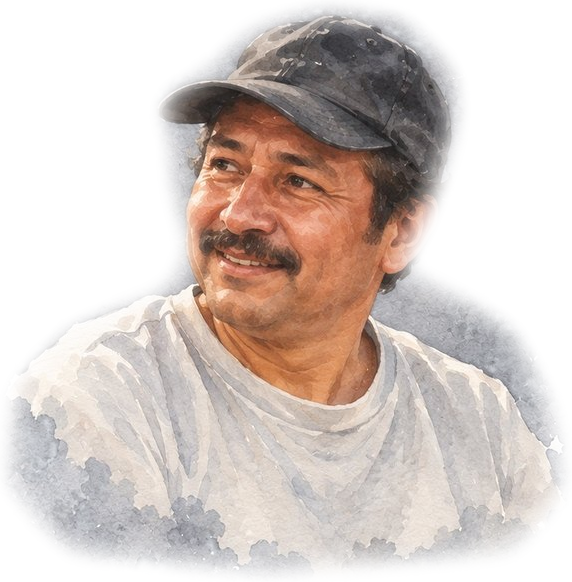
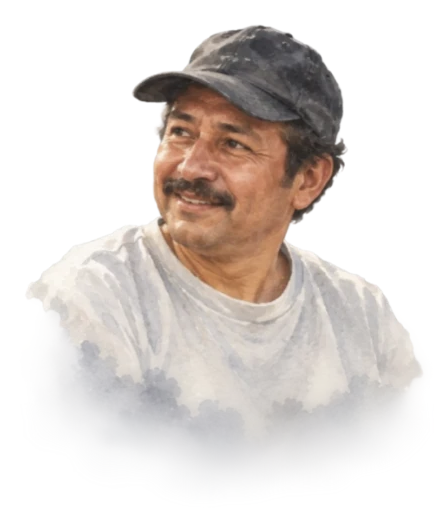
Papá o la Papa: use the supplied picture cut-outs, blurred toward the bottom; larger mic
- Split the user's three-picture image (pictures-source.webp) into the
  potato, Pope and Dad cut-outs, with a blur that ramps in over the lower
  part of each
- Size pictures by their visible bounds, ignoring the blur margin
- Mic icon 25% larger

Claude-Session: https://claude.ai/code/session_01GATDcCAs79GFnzRRRwYMir

diff --git a/papa/index.html b/papa/index.html
@@ -216,7 +216,7 @@
     justify-content: center;
     transition: opacity 260ms var(--ease-out), transform 260ms var(--ease-out), filter 260ms var(--ease-out);
   }
-  .mic svg { width: calc(15.2 * var(--u)); height: calc(20.2 * var(--u)); overflow: visible; }
+  .mic svg { width: calc(19 * var(--u)); height: calc(25.3 * var(--u)); overflow: visible; }
 
   .waves { gap: calc(4 * var(--u)); opacity: 0; transform: scale(0.6); filter: blur(4px); }
   .wave {
@@ -665,11 +665,10 @@
   const gl = canvas.getContext("webgl", { premultipliedAlpha: true, alpha: true, antialias: false });
   const AREA = { y: 90, w: 402, h: 500 }, SCALE = 2;
   const TEX_W = AREA.w * SCALE, TEX_H = AREA.h * SCALE;
-  // [left, top, width, height] in design px. These are the visible bounds
-  // of each picture in the Figma frames, because the cut-outs here are
-  // stand-ins cropped tight. With the Figma image files (which carry their
-  // own padding), use the frames' image boxes instead:
-  //   potato [123, 269, 155, 192] · pope [77, 216, 248, 307] · dad [9, 96, 384, 475]
+  // box: [left, top, width, height] in design px, the visible bounds of each
+  // picture in the Figma frames. pad: transparent margin (image px) around
+  // each cut-out, left for its bottom blur; it's ignored when sizing.
+  const PAD = 24;
   const PICTURES = {
     potato: { src: "assets/potato-cutout.png", box: [129, 277, 137, 179], label: "Watercolor of a potato" },
     pope:   { src: "assets/pope-cutout.png",   box: [91, 229, 217, 283],  label: "Watercolor of the Pope" },
@@ -724,9 +723,10 @@
   function layer(img, box, blurPx) {
     const c = document.createElement("canvas"); c.width = TEX_W; c.height = TEX_H;
     const x = c.getContext("2d");
-    const [bl, bt, bw, bh] = box, k = Math.min(bw / img.width, bh / img.height);
-    const w = img.width * k, h = img.height * k;
-    const dx = (bl + (bw - w) / 2) * SCALE, dy = (bt - AREA.y + (bh - h) / 2) * SCALE;
+    const [bl, bt, bw, bh] = box;
+    const cw = img.width - 2 * PAD, ch = img.height - 2 * PAD;   // the picture itself
+    const k = Math.min(bw / cw, bh / ch), w = img.width * k, h = img.height * k;
+    const dx = (bl + (bw - cw * k) / 2 - PAD * k) * SCALE, dy = (bt - AREA.y + (bh - ch * k) / 2 - PAD * k) * SCALE;
     if (blurPx && canFilter) x.filter = `blur(${blurPx}px)`;
     x.drawImage(img, dx, dy, w * SCALE, h * SCALE);
     if (blurPx && !canFilter) { // fallback blur: shrink, then let the upscale soften it

diff --git a/papa/CLAUDE.md b/papa/CLAUDE.md
@@ -55,17 +55,15 @@ cd papa && python3 -m http.server 8000   # mic needs http(s), not file://
   sheet behind an "Adjust" button. It holds Try a word, Paper (tooth size, tooth
   depth, warmth: 0 = `#fafafa` default, 1 = `#f5f2ee`), Painting time, and Voice visual.
 
-## Pictures: stand-ins until the Figma images are downloaded
+## Pictures
 
-`assets/*-cutout.png` are **stand-ins** made from `assets/{pope,potato,dad}.jpg`
-plus the traced `*-mask.png` outlines (with blue/grey backgrounds keyed out).
-The Figma image files couldn't be downloaded because `www.figma.com` was blocked
-by the cloud environment's network policy. When it's reachable, download the
-image fills from the three frames, save them over the cut-outs, and switch
-`PICTURES` boxes to the frames' image boxes: potato [123, 269, 155, 192],
-pope [77, 216, 248, 307], dad [9, 96, 384, 475]. The current boxes are the
-pictures' visible bounds, because the stand-ins are cropped tight. Also use the
-Figma progress-strip image (node 109:268) if wanted.
+`assets/{potato,pope,dad}-cutout.png` are split from the user's
+`assets/pictures-source.webp` (three transparent cut-outs side by side), each
+with a 24px transparent margin and a blur that ramps in over its lower 45%
+(colour and alpha blurred premultiplied, so no dark fringes). `PICTURES` boxes
+are each picture's visible bounds in the Figma frames; `layer()` ignores the
+24px margin when sizing. `assets/{pope,potato,dad}.jpg` and `*-mask.png` are
+the older full watercolors, no longer used by the page.
 
 ## Visual decisions (the user asked for these; keep them)
 
@@ -88,7 +86,7 @@ Figma progress-strip image (node 109:268) if wanted.
     per 30s), Marble, Ripples, Ellipses. Motion is slow.
   - Processing: grey blob with three small pulsing dots.
   - Mic and dots use the **pencil** filter in `--mic-ink #7f7d7a`. The mic
-    capsule is filled with that ink at 48% on white; the icon is about 15 × 20u.
+    capsule is filled with that ink at 48% on white; the icon is about 19 × 25u.
 
 ## Tried and rejected (don't bring back without asking)
 

diff --git a/papa/README.md b/papa/README.md
@@ -30,6 +30,6 @@ Design notes and decisions for future work: `CLAUDE.md`.
 ## Files
 
 - `index.html`: the whole prototype (paper, icons, voice blob, WebGL watercolor painter, Adjust panel)
-- `assets/*-cutout.png`: the three pictures (stand-ins made from the watercolors below until the Figma images are downloaded)
-- `assets/{pope,potato,dad}.jpg` and `assets/*-mask.png`: source watercolors and their traced outlines
+- `assets/*-cutout.png`: the three pictures, split from `assets/pictures-source.webp` with a soft blur toward the bottom
+- `assets/{pope,potato,dad}.jpg` and `assets/*-mask.png`: older full watercolors (not used by the page)
 - Type is SF Pro (system font), as in the Figma design
